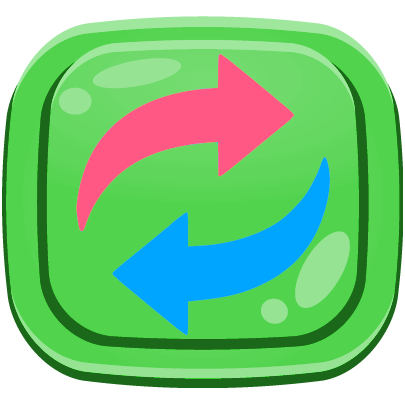
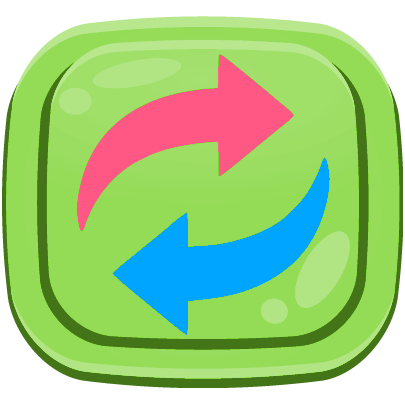
change button obj

diff --git a/src/Game/js/ui/ChangeButton/ChangeButton.js b/src/Game/js/ui/ChangeButton/ChangeButton.js
@@ -4,19 +4,19 @@ import { ARIAL_FONT, CENTER, Text } from "../../../../Engine/Text/Text";
 import { gc } from "../../game_config";
 import { Collider } from "../../../../Engine/Collider/Collider";
 import {
-  BrushButtonObj, ChangeButtonObj,
+  BrushButtonObj,
   GameStates,
   MainCursor
 } from "../../scenes/CoreScene";
 
 const Z_INDEX = 80;
 
-export class BrushButton extends GameObject {
+export class ChangeButton extends GameObject {
   constructor(coords, size, value = 3) {
     super();
     this.sprite = [
       new Sprite(
-        "img/brush_button/brush_button.png",
+        "img/change_button/change_button.png",
         { x: 0, y: 0 },
         { w: 405, h: 405 },
         size
@@ -62,7 +62,7 @@ export class BrushButton extends GameObject {
     this._pushed = false;
     this._isAnimated = false;
 
-    this.isPainting = false;
+    this.isChanging = false;
 
     this.text.textAllign(CENTER);
 
@@ -78,10 +78,10 @@ export class BrushButton extends GameObject {
   }
 
   push() {
-    if (!this._isAnimated && !this.disabled && (this.value > 0 || this.isPainting ) && !ChangeButtonObj.isChanging) {
+    if (!this._isAnimated && !this.disabled && (this.value > 0 || this.isChanging ) && !BrushButtonObj.isPainting) {
       this._pushed = true;
       this.sprite[0].resize(0.95, 100);
-      this.isPainting && this.sprite[1].resize(0.95, 100);
+      this.isChanging && this.sprite[1].resize(0.95, 100);
       this._isAnimated = true;
       setTimeout(() => (this._isAnimated = false), 100);
     }
@@ -93,7 +93,7 @@ export class BrushButton extends GameObject {
   }
 
   paint(){
-    this.isPainting = false;
+    this.isChanging = false;
     this.sprite[1].resize(0, 100);
     if (this.value <= 0) {
       this.disable();
@@ -112,19 +112,19 @@ export class BrushButton extends GameObject {
     this.sprite[1].resize(active ? 1 : 0, 100);
   }
 
-  unpush(paint = false) {
+  unpush(change = false) {
     if (!this._isAnimated) {
       this._isAnimated = true;
 
       this.sprite[0].resize(1, 100);
 
-      if (paint) {
-        if (!this.isPainting) {
-          this.isPainting = true;
+      if (change) {
+        if (!this.isChanging) {
+          this.isChanging = true;
           this.activate(true)
         }
         else {
-          this.isPainting = false;
+          this.isChanging = false;
           this.activate(false)
         }
       }

diff --git a/src/Game/js/ui/ScratchCatButton/ScratchCatButton.js b/src/Game/js/ui/ScratchCatButton/ScratchCatButton.js
@@ -1,7 +1,7 @@
 import { GameObject } from "../../../../Engine/GameObject/GameObject";
 import { Sprite } from "../../../../Engine/Sprite/Sprite";
 import { Collider } from "../../../../Engine/Collider/Collider";
-import {GameStates, MainCursor, ScoreBar, ScratchCatObj} from "../../scenes/CoreScene";
+import {BrushButtonObj, ChangeButtonObj, GameStates, MainCursor, ScoreBar, ScratchCatObj} from "../../scenes/CoreScene";
 import { getRandom } from "../../utilities/random";
 import { gc } from "../../game_config";
 import { BLUE, GREEN, MULT, PINK, PURPLE, YELLOW } from "../../objects/YarnBall/YarnBall";
@@ -169,7 +169,7 @@ export class ScratchCatButton extends GameObject {
   }
 
   push(){
-    if (!this._isAnimated && !this.disabled) {
+    if (!this._isAnimated && !this.disabled && !ChangeButtonObj.isChanging && !BrushButtonObj.isPainting) {
       this._pushed = true;
       this.sprite[0].resize(0.95, 100);
       this.sprite[1].resize(0.95, 100);

diff --git a/src/Game/js/scenes/CoreScene.js b/src/Game/js/scenes/CoreScene.js
@@ -15,6 +15,7 @@ import { ScoreProgressBar } from "../ui/ScoreProgressBar/ScoreProgressBar";
 import { TurnsCounter } from "../ui/TurnsCounter/TurnsCounter";
 import { EndLevelPlate } from "../ui/EndLevelPlate/EndLevelPlate";
 import {BrushButton} from "../ui/BrushButton/BrushButton";
+import {ChangeButton} from "../ui/ChangeButton/ChangeButton";
 
 Camera.moveTo({x: 0, y: 0});
 
@@ -110,7 +111,7 @@ export const BrushButtonObj = new BrushButton(
   }
 );
 
-export const BrushButtonObj2 = new BrushButton(
+export const ChangeButtonObj = new ChangeButton(
   {
     x: ScratchCatButtonObj.getCoords().x - 80 * gc.modifer,
     y: ScratchCatButtonObj.getCoords().y + (ScratchCatButtonObj.sprite[0].getSize().h - 65 * gc.modifer) / 2
@@ -134,5 +135,5 @@ export const CoreScene = new Scene(128, 128, [
   Counter,
   EndPlate,
   BrushButtonObj,
-  //BrushButtonObj2
+  ChangeButtonObj
 ], Camera);
